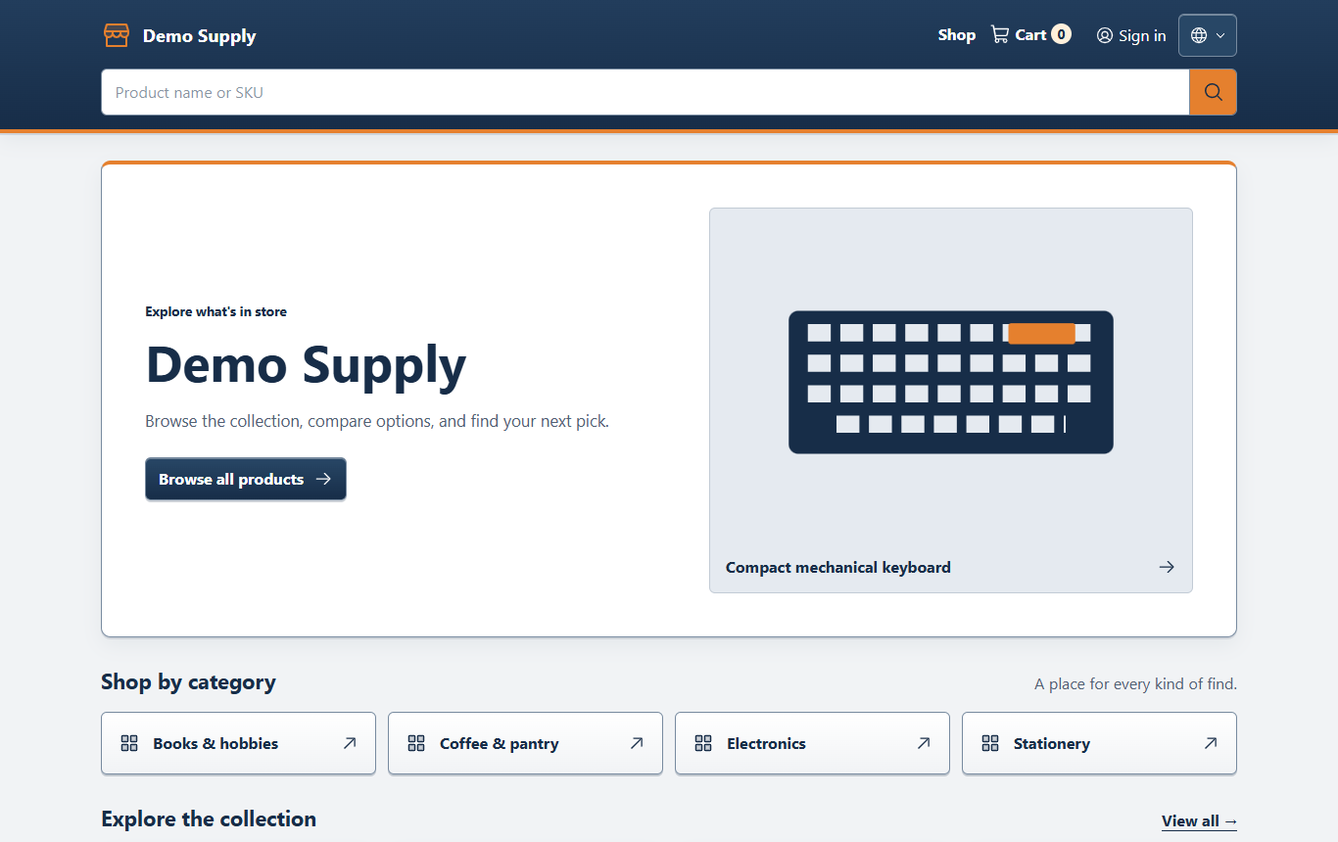
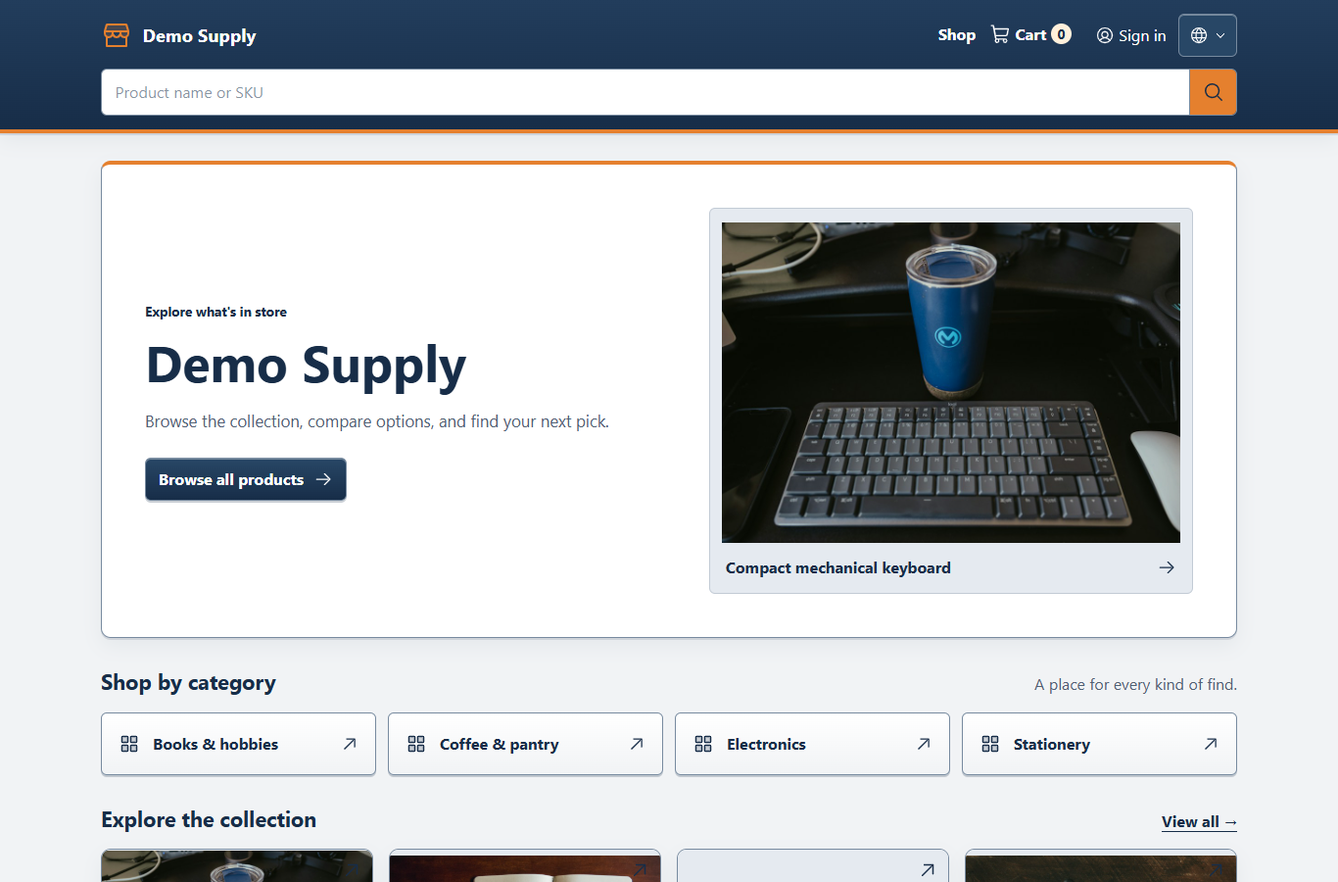
fix: complete proxy, branding and storefront verification

Changed region(s): [[0.0, 0.0302, 1.0, 0.7256], [0.0615, 0.7558, 0.9224, 1.0], [0.0922, 0.3326, 0.4612, 0.6047]]

diff --git a/tests/functional/password_reset.spec.ts b/tests/functional/password_reset.spec.ts
@@ -8,6 +8,7 @@ import type { Message } from '@adonisjs/mail'
 import StoreSetting from '#core/store/store_setting'
 import User from '#domains/customers/models/user'
 import PasswordResetToken from '#domains/customers/models/password_reset_token'
+import RequestPasswordReset from '#domains/customers/actions/request_password_reset'
 
 const password = 'test-password-123456'
 const replacement = 'replacement-password-12'
@@ -36,6 +37,47 @@ function resetLink(text: string) {
 test.group('Password reset', (group) => {
   group.each.setup(() => testUtils.db().withGlobalTransaction())
   group.each.setup(() => limiter.clear(['memory']))
+
+  test('request completes while mail delivery is still blocked', async ({ assert }) => {
+    const fake = mail.fake()
+    const originalSend = mail.send
+    let release!: () => void
+    let started!: () => void
+    const gate = new Promise<void>((resolve) => {
+      release = resolve
+    })
+    const deliveryStarted = new Promise<void>((resolve) => {
+      started = resolve
+    })
+    let delivery: Promise<unknown> | undefined
+    mail.send = ((...args: Parameters<typeof mail.send>) => {
+      started()
+      delivery = gate.then(() => originalSend.apply(mail, args))
+      return delivery
+    }) as typeof mail.send
+    try {
+      await StoreSetting.query().where('id', 1).update({ email: 'shop@example.test' })
+      const user = await User.create({
+        fullName: 'Delayed reset',
+        email: 'delayed-reset@example.test',
+        password,
+        role: 'customer',
+      })
+      const request = new RequestPasswordReset().execute(user.email, 'en')
+      await deliveryStarted
+      const completed = await Promise.race([
+        request.then(() => true),
+        new Promise<boolean>((resolve) => setTimeout(() => resolve(false), 500)),
+      ])
+      assert.isTrue(completed, 'Reset request must not await SMTP')
+      fake.messages.assertNoneSent()
+    } finally {
+      release()
+      await delivery
+      mail.send = originalSend
+      mail.restore()
+    }
+  })
 
   test('unknown and known emails get the same response, and only a hashed single-use token works', async ({
     client,

diff --git a/database/data/demo_catalog.ts b/database/data/demo_catalog.ts
@@ -5,13 +5,13 @@ export const demoProducts = [
     name: 'Compact mechanical keyboard',
     slug: 'compact-mechanical-keyboard',
     description:
-      'A compact keyboard for work and play. Choose the switch feel that suits your desk.\nDemo product; illustrations are examples.',
+      'A compact keyboard for work and play. Choose the switch feel that suits your desk.\nDemo product; photos are placeholders.',
     options: [{ name: 'Switch', values: ['Tactile', 'Linear'] }],
     variants: [
       { sku: 'KEY-COMPACT-T', vnd: '1250000', other: '49', selections: ['Tactile'] },
       { sku: 'KEY-COMPACT-L', vnd: '1200000', other: '47', selections: ['Linear'] },
     ],
-    images: ['keyboard.svg', 'keyboard-detail.svg'],
+    images: ['keyboard.jpg'],
   },
   {
     category: 'Coffee & pantry',
@@ -30,7 +30,7 @@ export const demoProducts = [
       { sku: 'COFFEE-500-W', vnd: '275000', other: '11', selections: ['500 g', 'Whole bean'] },
       { sku: 'COFFEE-500-F', vnd: '275000', other: '11', selections: ['500 g', 'Filter'] },
     ],
-    images: ['coffee.svg', 'coffee-detail.svg'],
+    images: ['coffee.jpg'],
   },
   {
     category: 'Stationery',
@@ -40,7 +40,7 @@ export const demoProducts = [
     description: 'An A5 dotted notebook for planning, sketches and everyday notes.',
     options: [],
     variants: [{ sku: 'NOTE-A5-DOT', vnd: '89000', other: '4', selections: [] }],
-    images: ['notebook.svg'],
+    images: ['notebook.jpg'],
   },
   {
     category: 'Books & hobbies',
@@ -51,6 +51,6 @@ export const demoProducts = [
       'A small wooden model kit for a quiet weekend project. No fashion-specific product fields required.',
     options: [],
     variants: [{ sku: 'MODEL-WEEKEND', vnd: '320000', other: '13', selections: [] }],
-    images: ['model-kit.svg'],
+    images: ['model-kit.jpg'],
   },
 ]

diff --git a/tests/functional/product_images.spec.ts b/tests/functional/product_images.spec.ts
@@ -213,7 +213,7 @@ test.group('Product image uploads', (group) => {
     removeSecond.assertStatus(302)
     assert.isFalse(await stored(shared))
 
-    const seeded = 'catalog/keyboard.svg'
+    const seeded = 'catalog/keyboard.jpg'
     assert.isTrue(await stored(seeded))
     const demo = await new CreateProduct().execute(
       definition('seeded-image', 'SEED-1', seeded),
@@ -415,6 +415,29 @@ test.group('Store branding', (group) => {
     assert.equal(unchanged.logoKey, logo)
     assert.isTrue(await stored(logo))
     assert.isTrue(await stored(replacement))
+
+    const lowContrast = await client
+      .put('/admin/settings')
+      .loginAs(owner)
+      .withCsrfToken()
+      .header('Accept', 'application/json')
+      .header('Accept-Language', 'en')
+      .json(storeBody({ primaryColor: '#ffffff' }))
+    lowContrast.assertStatus(422)
+    assert.include(lowContrast.text(), '4.5:1')
+    await unchanged.refresh()
+    assert.equal(unchanged.primaryColor, '#112233')
+
+    const formRejected = await client
+      .put('/admin/settings')
+      .loginAs(owner)
+      .withCsrfToken()
+      .redirects(1)
+      .header('Accept', 'text/html')
+      .header('Accept-Language', 'en')
+      .json(storeBody({ primaryColor: '#ffffff' }))
+    formRejected.assertStatus(200)
+    assert.include(pageProps(formRejected.text()).errors.primaryColor, '4.5:1')
 
     const product = await new CreateProduct().execute(
       definition('brand-shared', 'BRAND-1', logo),

diff --git a/app/core/store/settings_validator.ts b/app/core/store/settings_validator.ts
@@ -20,6 +20,15 @@ const hexColor = vine.createRule((value, _, field) => {
     field.report('hexColor', 'hexColor', field)
   }
 })
+const primaryContrast = vine.createRule((value, _, field) => {
+  if (typeof value !== 'string' || !/^#[0-9a-f]{6}$/.test(value)) return
+  const channels = [1, 3, 5].map((offset) => {
+    const channel = Number.parseInt(value.slice(offset, offset + 2), 16) / 255
+    return channel <= 0.04045 ? channel / 12.92 : ((channel + 0.055) / 1.055) ** 2.4
+  })
+  const luminance = channels[0] * 0.2126 + channels[1] * 0.7152 + channels[2] * 0.0722
+  if (1.05 / (luminance + 0.05) < 4.5) field.report('primaryContrast', 'primaryContrast', field)
+})
 const httpsUrl = vine.createRule((value, _, field) => {
   if (value === null || value === undefined) return
   if (typeof value !== 'string') return
@@ -71,7 +80,14 @@ export const settingsValidator = vine.create({
   instagram: optionalHttps(),
   youtube: optionalHttps(),
   tiktok: optionalHttps(),
-  primaryColor: vine.string().trim().toLowerCase().use(hexColor()).nullable().optional(),
+  primaryColor: vine
+    .string()
+    .trim()
+    .toLowerCase()
+    .use(hexColor())
+    .use(primaryContrast())
+    .nullable()
+    .optional(),
   accentColor: vine.string().trim().toLowerCase().use(hexColor()).nullable().optional(),
 })
 

diff --git a/tests/functional/foundation.spec.ts b/tests/functional/foundation.spec.ts
@@ -1,4 +1,5 @@
 import { test } from '@japa/runner'
+import { trustedProxies } from '#core/support/trusted_proxies'
 
 function pageVersion(html: string): string {
   // Inertia 3 embeds page data in a JSON script, separate from SSR markup.
@@ -8,6 +9,19 @@ function pageVersion(html: string): string {
 }
 
 test.group('Foundation smoke', () => {
+  test('proxy trust defaults closed and supports explicit comma-separated ranges', ({ assert }) => {
+    assert.isFalse(trustedProxies())
+    assert.isFalse(trustedProxies(' , '))
+    const trust = trustedProxies('127.0.0.1, 10.0.0.0/24, ::1')
+    if (!trust) throw new Error('Expected configured trust predicate')
+    assert.isTrue(trust('127.0.0.1', 0))
+    assert.isTrue(trust('10.0.0.42', 0))
+    assert.isTrue(trust('::1', 0))
+    assert.isFalse(trust('10.0.1.42', 0))
+    assert.isFalse(trust('203.0.113.42', 0))
+    assert.throws(() => trustedProxies('true'))
+  })
+
   test('serves health and connects to PostgreSQL', async ({ client }) => {
     const live = await client.get('/health')
     live.assertStatus(200)

diff --git a/config/app.ts b/config/app.ts
@@ -1,6 +1,7 @@
 import app from '@adonisjs/core/services/app'
 import { defineConfig } from '@adonisjs/core/http'
 import env from '#start/env'
+import { trustedProxies } from '#core/support/trusted_proxies'
 
 /**
  * The configuration settings used by the HTTP server
@@ -16,7 +17,7 @@ export const http = defineConfig({
    * Forwarded headers are trusted only from these proxy addresses/CIDRs (comma-separated).
    * Unset trusts no proxy; never set a blanket true.
    */
-  trustProxy: env.get('TRUSTED_PROXIES') ?? false,
+  trustProxy: trustedProxies(env.get('TRUSTED_PROXIES')),
 
   /**
    * Allow HTTP method spoofing via the "_method" form/query parameter.

diff --git a/app/core/support/trusted_proxies.ts b/app/core/support/trusted_proxies.ts
@@ -1,0 +1,13 @@
+import { defineConfig } from '@adonisjs/core/http'
+
+/** Compile each configured address separately; proxy-addr does not parse comma-separated strings. */
+export function trustedProxies(value?: string) {
+  const addresses =
+    value
+      ?.split(',')
+      .map((address) => address.trim())
+      .filter(Boolean) ?? []
+  if (!addresses.length) return false
+  const checks = addresses.map((address) => defineConfig({ trustProxy: address }).trustProxy)
+  return (address: string, distance: number) => checks.some((check) => check(address, distance))
+}

diff --git a/app/http/middleware/inertia_middleware.ts b/app/http/middleware/inertia_middleware.ts
@@ -14,6 +14,7 @@ export default class InertiaMiddleware extends BaseInertiaMiddleware {
     const locale = ctx.locale ?? resolveLocale({ storeDefault: storeConfig.defaultLocale })
     ctx.view.share({ locale })
     return {
+      errors: this.getValidationErrors(ctx),
       locale,
       seo: { origin: publicOrigin, indexable: indexingEnabled },
       messages: messagesFor(locale),

diff --git a/database/seeders/catalog_seeder.ts b/database/seeders/catalog_seeder.ts
@@ -40,7 +40,7 @@ export default class CatalogSeeder extends BaseSeeder {
           })),
           images: demo.images.map((image, position) => ({
             storageKey: 'catalog/' + image,
-            altText: demo.name + ' — demo illustration',
+            altText: demo.name + ' — placeholder photo',
             isPrimary: position === 0,
           })),
         },

diff --git a/inertia/app/design/storefront-shell.css b/inertia/app/design/storefront-shell.css
@@ -3,6 +3,9 @@
   border-bottom: 4px solid var(--brand-accent);
   box-shadow: var(--elevation-panel);
 }
+.store-header :where(a, summary, .hc-button):focus-visible {
+  outline-color: var(--text-on-brand);
+}
 .store-nav {
   max-width: 1200px;
   margin: auto;

diff --git a/docs/STATUS.md b/docs/STATUS.md
@@ -1,40 +1,33 @@
 # Status
 
-Updated: 2026-10-05. **Core commerce and optional modules are implemented; production foundations exist. Review and launch work remain.** The original plan includes deferred work beyond these milestones; see ROADMAP.
+Updated: 2026-10-05. **Core commerce and optional modules are implemented. Merchant setup and launch review remain.** See [ROADMAP](ROADMAP.md) for deferred work.
 
-## What exists and works
+## Implemented
 
-- `main` carries the HoneyChic rewrite. Laravel v1 is archived at the `larastore-v1-final` tag (`3cad9fd`) and its GitHub release, and remains in history. The remote redirects to `Sanguin3G/HoneyChic`; no repository rename was performed.
-- HoneyChic is a base any small or medium shop sets up for itself. Hosting, SMTP or SMS provider, and object storage are the owner's choice, configured by environment variables; nothing is deployed on the project's behalf.
-- AdonisJS 7, Vue 3, Inertia SSR, PostgreSQL, Tailwind 4, Phosphor, VineJS and Japa. One monolith. No Redis, search engine, or AI provider.
-- Accounts, store settings, catalog, inventory, session cart, guest/account checkout, historical orders and shared cancellation are in place. Low stock counts active variants with stock greater than zero and at or below the merchant threshold. Zero stock is out of stock, on both the dashboard and the inventory filter.
-- The header language control is a globe button with an English / Tiếng Việt menu. It keeps the existing locale session and saved preference.
-- Optional modules, off until the owner enables them: wishlist, reviews, coupons, shipping, cash on delivery, and a development-only fake payment. Stripe, VNPay and the assistant are not installed.
-- Reviews and wishlist stay unavailable when customer accounts are off. A review needs one completed purchase of that product. One review per customer and product, and it can be edited.
-- Checkout can add a shipping rate, coupon and payment method inside the order transaction. Orders store the discount, shipping name and coupon code. Core Orders does not import those modules.
-- Cash on delivery stays unpaid until staff record collection after processing starts. Fake settlement cannot run in production. Repeating a payment event does not pay twice. A cancelled order cannot be paid, and a paid order cannot restore stock.
-- Public pages have titles, descriptions, canonical URLs and social metadata. Product pages include structured data. Indexing and the sitemap stay off unless `NODE_ENV=production` and `SEO_INDEXABLE=true`.
-- Production Dockerfile, Compose example, health checks, CSP and deployment/backup notes are in place. The root license is MIT. CI runs for `rewrite/honeychic-v2`, `stabilize/honeychic-mvp` and `main`.
-- Order confirmation, shipped, and cancellation mail is sent after the order transaction commits. A mail failure is reported on the order and does not undo the order or stock. Guest emails include a hashed 7-day recovery link that can be opened again until it expires. Password reset uses a hashed one-hour token that cannot be reused. Mailpit is the development SMTP target. Delivery is skipped until `SMTP_HOST` and a sender address are set.
-- Staff and owners can upload JPEG, PNG, WebP, and AVIF product images up to 5 MB. Files are stored by a generated `uploads/<uuid>` key on the Drive disk. The default disk is local `public/media`. S3-compatible settings are available and unused until `DRIVE_DISK=s3`. Replacing an image deletes the previous upload only after the product row commits, and only when no image still references it. Seeded `catalog/` files are kept. SVG uploads are rejected.
-- The owner can set the store logo, favicon, description, public contact, https social links, and optional primary and accent colors. Null colors keep the default navy and orange tokens. Logo and favicon use the same disk and are deleted only after save, and only when no product image or brand field still references them. The storefront shows that public identity. Order prefix, stock threshold, and account flags stay off the public store props.
+- Remote main carries the AdonisJS 7, Vue 3, Inertia SSR, PostgreSQL, Tailwind 4 and Phosphor application. Laravel v1 remains at the larastore-v1-final tag (3cad9fd) and release. The existing remote redirects to Sanguin3G/HoneyChic; it was not renamed during this work.
+- HoneyChic is a self-hosted base for an independent seller or store. The owner chooses hosting, SMTP, media storage, proxy trust and backups. No hosted deployment is provisioned. SMTP is the only built-in delivery channel; SMS is not implemented.
+- Accounts, owner/staff administration, store settings, generic catalog/variants, recorded inventory, session cart, guest/account checkout, historical orders and shared cancellation work. Stock, integer money, snapshots, ordered locks and checkout atomicity follow [COMMERCE_RULES](COMMERCE_RULES.md).
+- EN/VI interface text and persisted locale selection are available throughout. Merchant content is not translated. The globe language menu supports keyboard movement and Escape focus restoration.
+- Optional wishlist, reviews, coupons, shipping and COD default off. Reviews require a completed purchase; wishlist/reviews require accounts. The fake gateway is development/test only. Stripe, VNPay and an AI assistant are not installed.
+- Checkout module participation commits order, stock, coupon redemption and payment records together. Settlement locks the order first and is idempotent. Paid orders cannot restore stock through cancellation.
+- Public metadata, product structured data and sitemaps exist. Indexing requires production and SEO_INDEXABLE=true. CSP, health/readiness, auth throttling and production Docker/Compose examples are in place.
+- Confirmation, shipped and cancellation mail runs after order commit. Password reset uses hashed, single-use one-hour tokens; requests do not await SMTP. Guest recovery links are hashed and valid for seven days. Missing sender/SMTP configuration skips delivery.
+- Owner/staff image uploads accept JPEG, PNG, WebP and AVIF up to 5 MB. Drive supports local media or owner-configured S3-compatible storage. Generated uploads are removed after commit only when no product or brand field references them; SVG uploads are rejected.
+- Merchant identity supports logo, favicon, public contact, https social links and optional colors. Inertia shares validation errors after rejected form submissions. Primary colors must provide at least 4.5:1 contrast with white text. Dark storefront navigation uses a white focus outline.
+- New development seeds use local placeholder photos with documented [sources and license](MEDIA.md). Old catalog SVG keys remain available for existing references. Seeds never overwrite merchant changes or invent stock.
 
 ## Verification
 
-- On 2026-10-04 the clean tree passed container migrations, typecheck, lint, production build and **77 Japa tests**. After the low-stock correction, the commerce-admin and inventory suites passed (12 tests). Storefront and admin were then opened in English and Vietnamese, at desktop and mobile widths. No concrete layout or interaction defect was changed. A refused Vite HMR socket on port 24678 came from the unpublished preview container port, not from the pages. Checks use an isolated database; no merchant data is used.
-- New coverage includes coupon races, payment versus cancellation, review eligibility, wishlist bounds, and accounts-off module configuration.
-- Playwright on Microsoft Edge verified the production image: guest shipping/coupon/COD checkout and cancellation, account checkout, wishlist, admin cash collection/retry, completed-purchase review submission, EN/VI, mobile layout, CSP, indexing/sitemaps and production fake-payment rejection. Browser fixtures used a separate test database. Existing storefront screenshots remain in `docs/screenshots/`.
-- Host checks on the Windows-mounted tree are too slow to trust; the passing suite ran inside Docker against PostgreSQL. After order mail, typecheck, lint, and the full suite passed: **81 tests**. After image uploads, typecheck, lint, and the full suite passed again: **84 tests**. Edge opened an admin product, uploaded a PNG, saved it, loaded the file from `/media`, then removed it and confirmed the file was gone. After branding, typecheck, lint, and the full suite passed: **86 tests**. Edge signed in as the preview owner, uploaded a logo, saved contact, an https link, and a primary color, then confirmed the header image, footer, and color on desktop and mobile. Removing the logo restored the default icon and the uploaded file returned 404. `npm audit --omit=dev` reports 23 high findings after Drive: 22 from the braces chain, now also reached through `@adonisjs/mail` and `@adonisjs/drive`, and nodemailer 9.1.1. The suggested braces fix would downgrade Adonis. The nodemailer fixes are outside the mail package's declared range. No override is applied. The AWS SDK added no separate advisory. On 2026-10-05 the production image ran in an isolated Compose project on loopback port 3340. Health and ready checks passed. A guest COD checkout with a coupon produced matching order, payment, inventory, and redemption rows. A `pg_dump -Fc` restore into a second database booted the same image; owner login and the admin order matched the source snapshot. The container `fs` disk was ephemeral. No public host was used.
-- Reviewed 22 Markdown files and checked their local links. Removed empty Laravel/Filament directories; ignored local PHP runtime artifacts remain excluded from the application image. No unused Vue component was identified in the reference scan. This is not an exhaustive proof that all code is necessary.
+- On 2026-10-05, Linux Node 24 inside Docker passed typecheck, lint, production build and **88 Japa tests** against isolated honeychic_test. New regression checks cover blocked SMTP delivery, unreadable primary colors and comma-separated IPv4/IPv6/CIDR proxy trust.
+- Playwright using Microsoft Edge tested the production image on loopback port 3337 with a separate honeychic_finish_test database. Guest add/cart/checkout/receipt/cancellation, customer account pages, admin catalog/inventory/orders/settings/modules, EN/VI desktop/mobile, language controls and the mobile filter dialog passed. The final scan reported no page-width overflow, broken loaded images or browser console errors. Captures were visually inspected; README screenshots use demo fixtures.
+- Earlier production verification covered shipping/coupon/COD, account checkout, wishlist, completed-purchase reviews, cash collection retries, CSP/indexing, production fake-payment rejection, image upload/removal and branding. A local pg_dump restore into a second database was checked on 2026-10-05; each owner must repeat the restore drill on their chosen host.
+- Obsolete untracked Laravel dependencies, caches, logs and build output were removed after confirming no current runtime references. Removed 468 obsolete temporary tooling entries; retained current dependencies, Node/browser tooling and verification evidence. Tracked source contains no Laravel PHP application files. The original source, complete v1 history, SQLite database and environment are preserved in the ignored private `.legacy-backup/laravel-v1` archive with verified checksums; the original tag is unchanged. Legacy data matched seeded fixtures, so no demo accounts, orders or balances were merged into the current store. See [recovery notes](DEVELOPMENT.md#laravel-v1-recovery).
 
-## Still open
+## Remaining limits
 
-No email verification, refunds, returns, or unpaid-order expiry. Guest orders still leave the browser session after two hours; the emailed recovery link is the way back. Admin can rename customers, not change their email or role. There is no queue: a process crash after commit and before SMTP accepts the message can drop that email. The order itself remains. Local image uploads work; a container's `fs` disk is ephemeral, and no S3 bucket is provisioned. An upload that is never saved can remain on disk.
-
-Checkout review clears selections for unavailable modules and recalculates the displayed charges. Submission still rejects stale choices under transactional capability checks. The review HTTP adapter passes only rating/body to persistence. A leftover static robots file was removed so the dynamic indexing policy takes effect.
-
-Store profiles, a setup wizard, imports/exports, and other deferred items remain in ROADMAP. Checkout and module switches already live in settings.
-
-The braces advisory `GHSA-vfj7-8cjw-p6xm` still has no patched release. Drive joins that chain. Nodemailer 9.1.1, pulled in by mail, has separate high advisories whose fixes are not in the declared 9.x range. Do not call the dependency tree clean. See [SECURITY](SECURITY.md).
-
-No hosted deploy was made. A local production-container dump and restore into a second database was verified; each owner should repeat the restore drill on their own host. `TRUSTED_PROXIES` has not been exercised behind a real proxy. The password-reset request no longer waits for SMTP, so response time does not reveal whether an account exists.
+- No email verification, refunds, returns, unpaid-order expiry, setup wizard or CSV import/export. These remain planned rather than implied complete.
+- Guest sessions expire after two hours; emailed recovery links provide later access. Cookie sessions have no central revocation. Administration can rename customers, not change their email or role.
+- No mail queue exists. A process crash can drop delivery after commit; it does not undo an order. Removing SMTP latency reduces reset timing leakage, but token persistence still adds database work for existing accounts, so identical response timing is not guaranteed.
+- Container-local media needs a persistent volume. No S3 bucket is provisioned, and unsaved uploads may remain on disk.
+- Production dependency audit still reports **23 high findings**, no critical findings, with no overrides or framework downgrade. See [SECURITY](SECURITY.md).
+- Proxy list parsing is tested, but HTTPS proxy trust, database TLS, backups and restore must still be exercised on the owner's real host. No public deployment was made.

diff --git a/docs/DEVELOPMENT.md b/docs/DEVELOPMENT.md
@@ -53,7 +53,7 @@ Use targeted tests/checks while iterating; all checks before milestones. Tests p
 
 ## This checkout
 
-The ignored `.honeychic-tools` folder is temporary execution tooling, not an application requirement. Ignored `.env.v1.local` preserves the original Laravel environment and is not loaded.
+The ignored `.honeychic-tools` folder is temporary execution tooling, not an application requirement. The private `.legacy-backup/laravel-v1` archive preserves the original Laravel source ZIP, complete v1 Git bundle, SQLite database, environment and pre-rewrite Git history. Its manifest records SHA-256 checksums. It is ignored by Git and excluded from Docker builds; keep it private and copy it to your normal backup storage.
 
 Linux Node is currently available through:
 
@@ -65,11 +65,11 @@ Replace it with your normal Linux Node 24 installation when convenient. Typechec
 
 ## Catalog development
 
-Run node ace migration:run and node ace db:seed after updating this slice. Development seeding adds four mixed-category examples only when their slugs are absent. It never resets merchant data or seeds credentials. Product illustrations are local SVGs in public/media/catalog. Staff can upload a replacement image or keep one of those relative keys.
+Run node ace migration:run and node ace db:seed after updating this slice. Development seeding adds four mixed-category examples only when their slugs are absent. It never resets merchant data or seeds credentials. Placeholder product photos are stored locally in public/media/catalog; sources and licenses are in docs/MEDIA.md. Staff can upload a replacement image or keep one of those relative keys.
 
 Browse /products. Owners/staff edit /admin/products and /admin/categories. Products start as drafts; simple products require one default variant. Add generic option values and explicitly define sellable combinations. Prices use decimal text in the displayed currency (whole values for VND). Store currency changes apply only to new products.
 
-Product images accept a JPEG, PNG, WebP, or AVIF upload up to 5 MB, or an existing relative key. Uploads are stored as `uploads/<uuid>.<ext>` through Drive. SVG uploads are rejected; the seeded SVG keys remain valid. The default disk is local `public/media`, served at `/media`. Set `DRIVE_DISK=s3` only when the S3 variables in `.env.example` point at a real bucket. Logo and favicon use that same upload path and are removed only when no product image or brand field still references the key. An upload that is never saved can remain on disk; there is no sweeper.
+Product images accept a JPEG, PNG, WebP, or AVIF upload up to 5 MB, or an existing relative key. Uploads are stored as `uploads/<uuid>.<ext>` through Drive. SVG uploads are rejected; existing catalog keys remain valid. The default disk is local `public/media`, served at `/media`. Set `DRIVE_DISK=s3` only when the S3 variables in `.env.example` point at a real bucket. Logo and favicon use that same upload path and are removed only when no product image or brand field still references the key. An upload that is never saved can remain on disk; there is no sweeper.
 
 ## Inventory development
 
@@ -99,4 +99,23 @@ Run node ace migration:run for the new unconditional module schema. Modules begi
 
 Targeted checks: node ace test --files=modules.spec.ts --files=module_checkout.spec.ts --files=module_concurrency.spec.ts --files=seo.spec.ts. Keep DB_DATABASE on honeychic_test. The fake gateway works only in development/test; a production preview must use COD. Playwright browser checks use Microsoft Edge (`channel: 'msedge'`). Keep WSL active while Edge accesses Docker.
 
-Production uses .env.production.example and compose.production.yaml; see DEPLOYMENT for safe release/backup commands. SMTP example variables remain reserved until mail integration exists.
+Production uses .env.production.example and compose.production.yaml; see DEPLOYMENT for safe release/backup commands. SMTP is the built-in delivery channel; there is no SMS integration.
+
+## Delivery extensions
+
+SMTP is the only built-in channel. Configure it in config/mail.ts with SMTP_* variables; sender selection lives in app/core/support/mail_sender.ts. Order mail runs after commit in DeliverOrderMail, and password-reset delivery runs asynchronously in RequestPasswordReset. Keep EN/VI templates and checkout-locale snapshots when adding a mail transport.
+
+SMS needs a separate explicit provider integration, validated phone data and delivery configuration. No SMS_* variable currently enables SMS. Future delivery adapters must not change order transactions, log recovery secrets or expose provider failures as account-existence responses.
+
+## Laravel v1 recovery
+
+The unchanged `larastore-v1-final` tag points to `3cad9fdb3745e89dd7445844051c710753df3ee0`. For a separate source checkout:
+
+```bash
+git clone .legacy-backup/laravel-v1/laravel-v1.bundle ../HoneyChic-Laravel-v1
+git -C ../HoneyChic-Laravel-v1 checkout larastore-v1-final
+```
+
+The archived SQLite database passed integrity checking. Its four categories, twelve products (including exact seeded stock deductions), three demo customers, four demo orders and seven review bodies match the v1 seeder. The remaining account is the seeded administrator. These demo identities, passwords, reviews and unpaid historical orders were not imported into the current store. The original database remains recoverable in the private archive.
+
+The old environment used the log mailer, had no configured S3 bucket/credentials, and contained Laravel-specific application/database/session settings. None were suitable to replace the working Adonis environment. In particular, its encryption key and bcrypt accounts are incompatible with current scrypt authentication; archived Gmail credentials were not activated. The active `.env` was preserved unchanged. Original legacy database/environment files and unused PHP runtime artifacts were removed only after backup verification.
